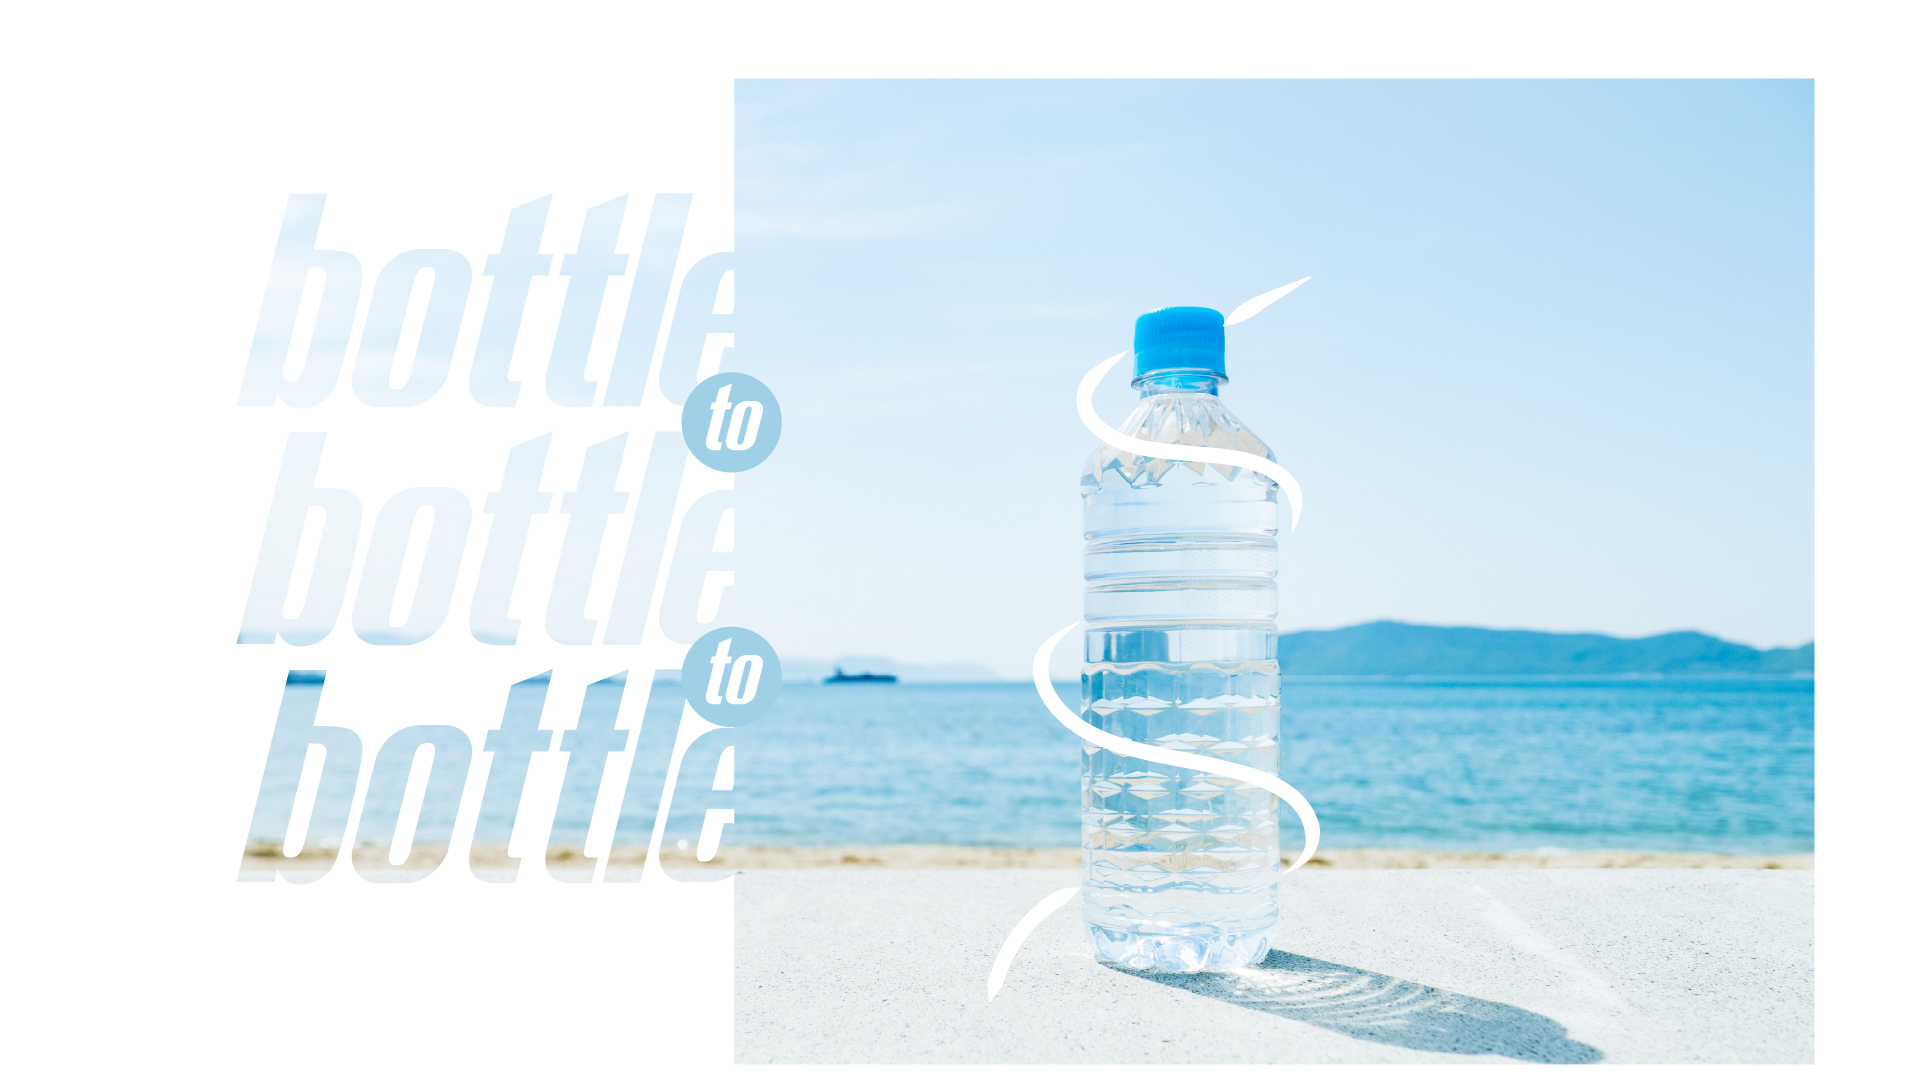
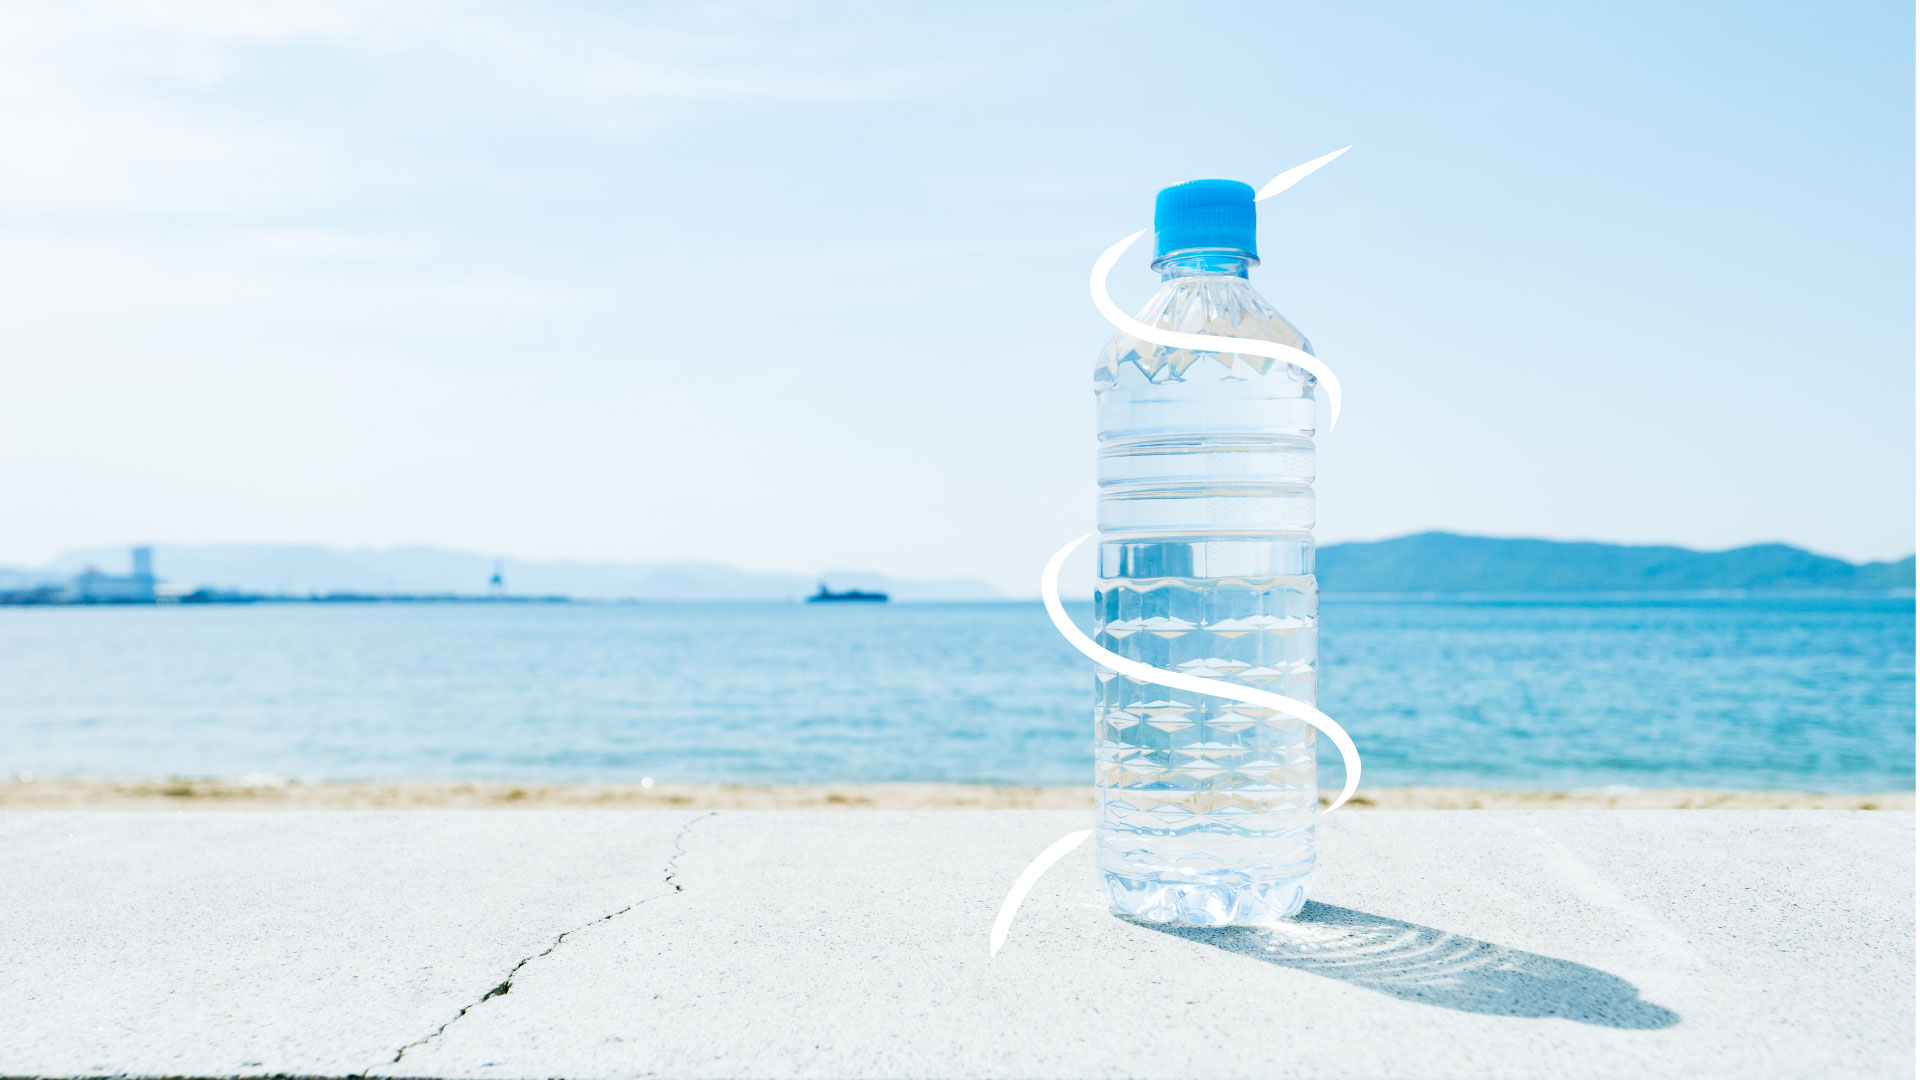
Update hero section to use a full-width layout and new image
Replaces the contained hero image with a full-bleed version and adjusts text positioning, using `artifacts/sorta-website/src/components/Hero.tsx` and `artifacts/sorta-website/public/hero_image.jpg`.

Replit-Commit-Author: Agent
Replit-Commit-Session-Id: 4af55579-243d-4d25-b48c-21fdb5893933
Replit-Commit-Checkpoint-Type: full_checkpoint
Replit-Commit-Event-Id: 4853d03c-bbc9-4314-832c-89742d2f13ed
Replit-Commit-Screenshot-Url: https://storage.googleapis.com/screenshot-production-us-central1/0063a420-3022-46ae-95cf-e7b82112fd99/4af55579-243d-4d25-b48c-21fdb5893933/9zmzYMr
Replit-Helium-Checkpoint-Created: true

diff --git a/artifacts/sorta-website/src/components/Hero.tsx b/artifacts/sorta-website/src/components/Hero.tsx
@@ -12,32 +12,29 @@ export default function Hero() {
   };
 
   return (
-    <section className="relative w-full bg-white flex flex-col items-center pt-24 pb-16 md:pt-28 md:pb-20 min-h-screen">
-      {/* Image — contained with white margins, ~80% width */}
-      <div className="relative w-[93%] mx-auto">
-        <img
-          src={heroImagePath}
-          alt="Sorta hero"
-          className="w-full h-auto block rounded-sm"
-        />
+    <section className="relative h-[100dvh] w-full flex items-end overflow-hidden">
+      <img
+        src={heroImagePath}
+        alt="Sorta hero"
+        className="absolute inset-0 w-full h-full object-cover z-0"
+      />
 
-        {/* Text block — overlaps the bottom of the image */}
-        <div className="absolute bottom-0 left-0 translate-y-[55%] px-2">
-          <span className="text-[var(--color-sky)] text-label mb-3 block tracking-[0.15em]">
-            {tr('hero', 'overline')}
-          </span>
-          <h1
-            className="text-[var(--color-navy)] whitespace-nowrap"
-            style={{ fontSize: 'clamp(22px, 3.5vw, 52px)', letterSpacing: '-0.02em', lineHeight: 1.05 }}
-          >
-            {tr('hero', 'headline')}
-          </h1>
-        </div>
+      {/* Content anchored to bottom-left, over the open sky/ground area */}
+      <div className="relative z-20 max-w-[1200px] w-full mx-auto px-5 pb-10 md:pb-14">
+        <span className="text-[var(--color-navy)] text-label mb-4 block tracking-[0.15em] opacity-60">
+          {tr('hero', 'overline')}
+        </span>
+        <h1
+          className="text-[var(--color-navy)] whitespace-nowrap"
+          style={{ fontSize: 'clamp(24px, 4vw, 58px)', letterSpacing: '-0.02em', lineHeight: 1.0 }}
+        >
+          {tr('hero', 'headline')}
+        </h1>
       </div>
 
       <button
         onClick={() => scrollTo('problem')}
-        className="absolute bottom-6 left-1/2 -translate-x-1/2 text-[var(--color-navy)]/40 hover:text-[var(--color-navy)] transition-colors animate-bounce"
+        className="absolute bottom-4 left-1/2 -translate-x-1/2 z-20 text-[var(--color-navy)]/40 hover:text-[var(--color-navy)] transition-colors animate-bounce"
         aria-label="Scroll down"
         data-testid="button-scroll-indicator"
       >
